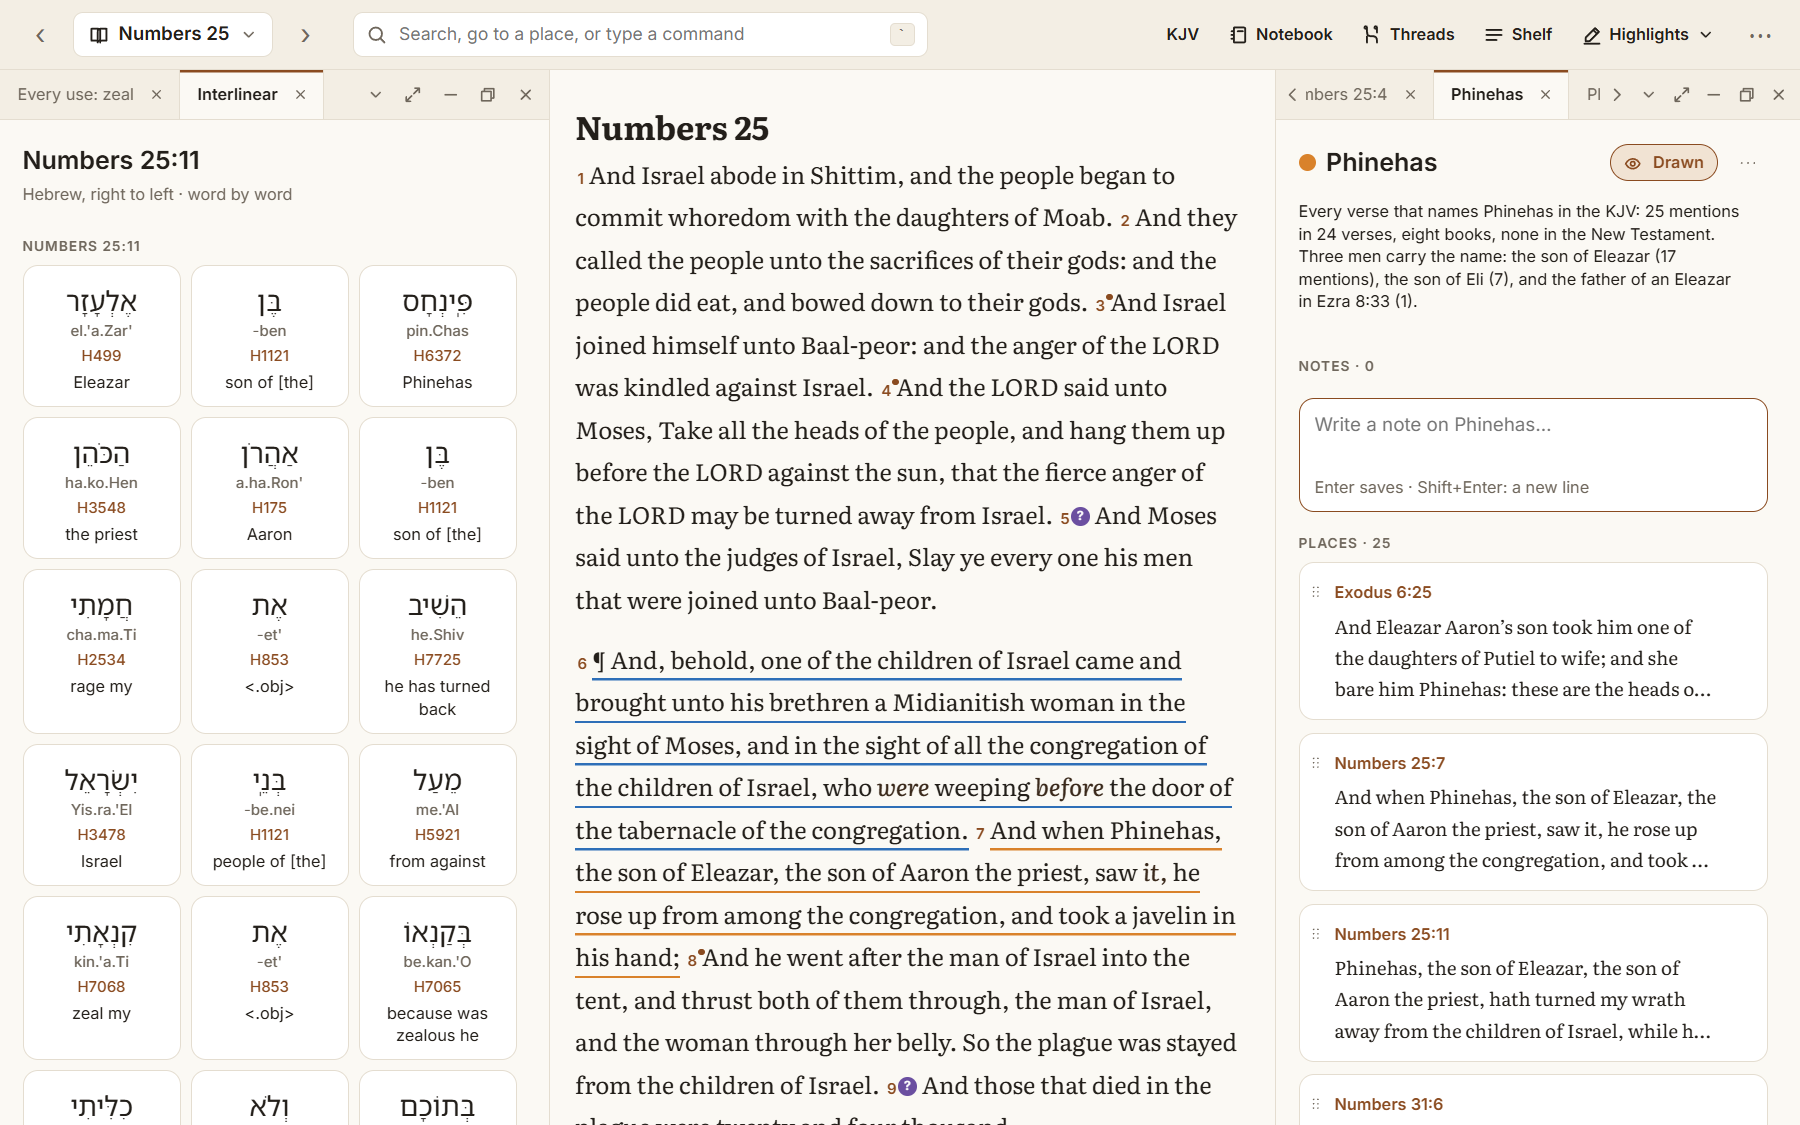
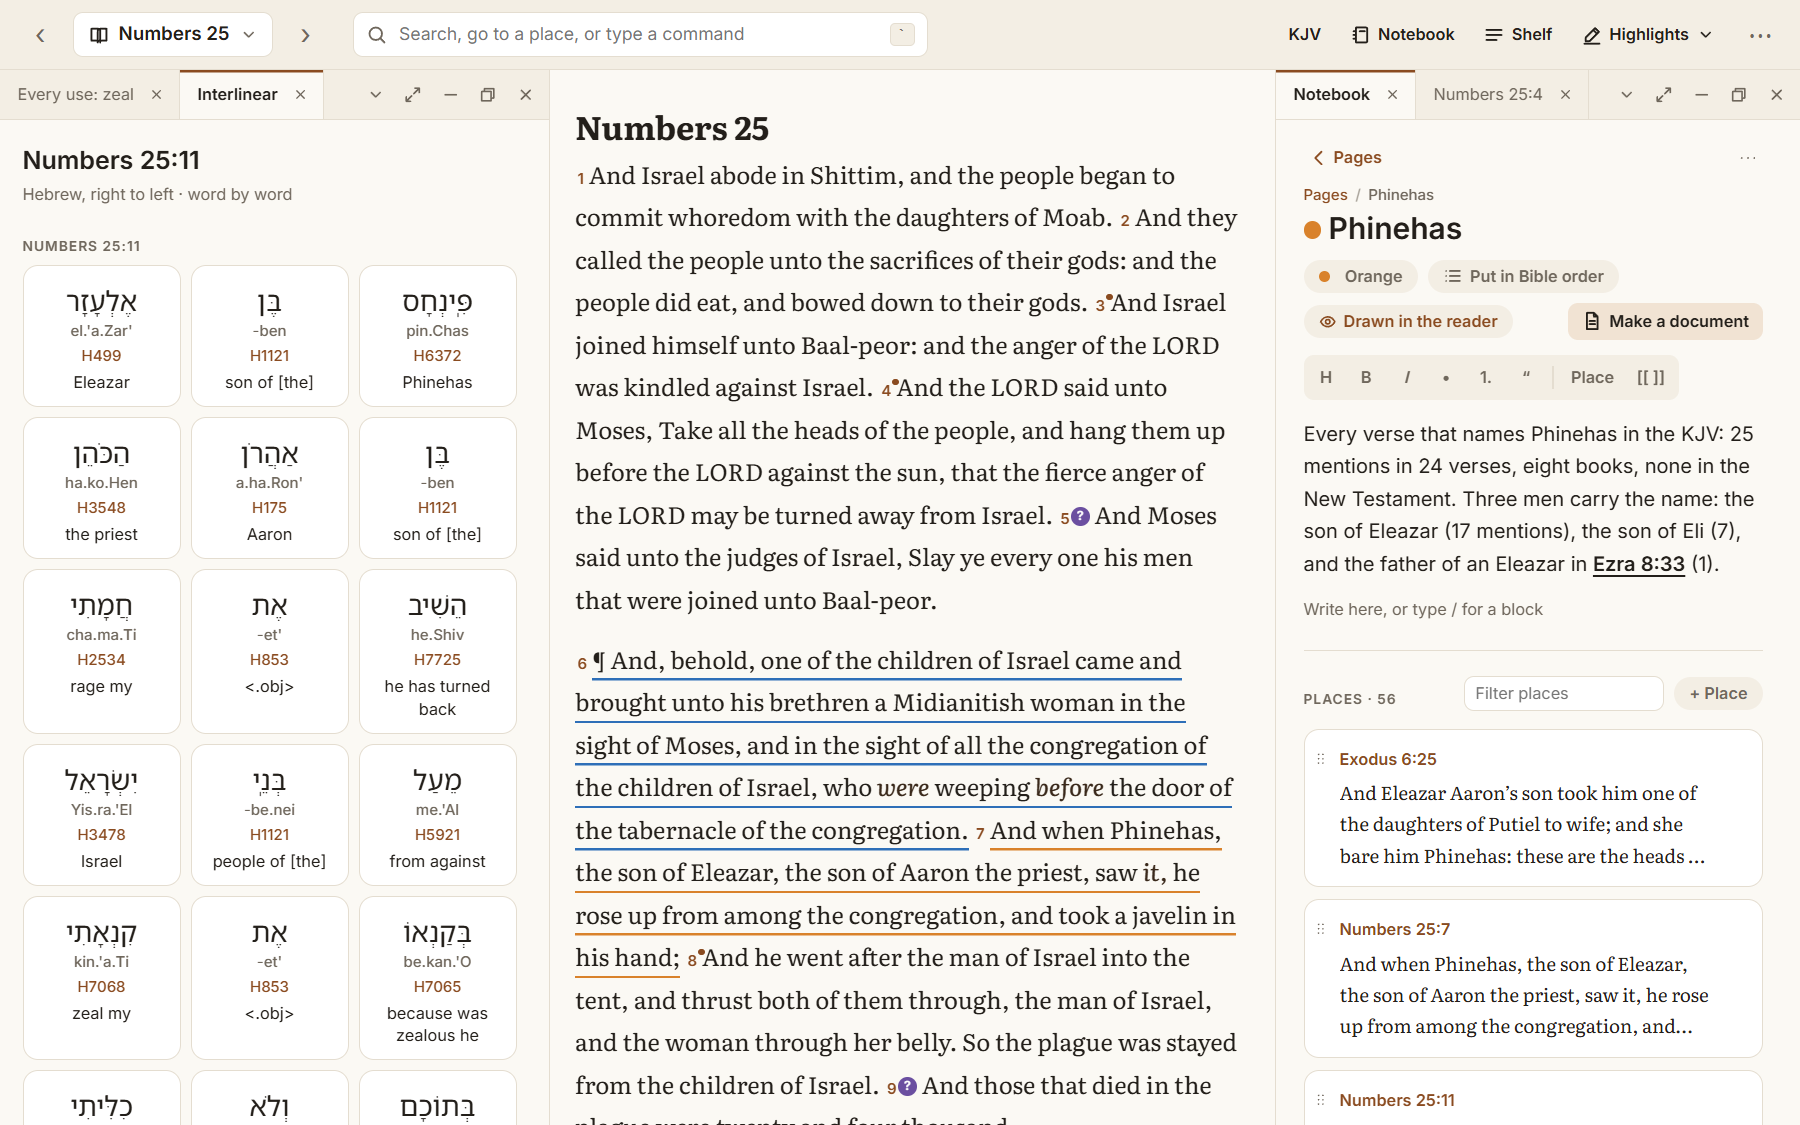
R1: desk checks (376 of 376), results section 28, screenshots, dot for a thread with no color

diff --git a/ui/src/desk.css b/ui/src/desk.css
@@ -227,6 +227,7 @@ mark.m-s { background: var(--hl-blue); } mark.m-e { background: var(--hl-pink); 
 .eye.off { color: var(--muted); }
 .dot { flex: none; }
 .dot.big { width: 14px; height: 14px; }
+.dot.c- { background: var(--line); }
 .dot.c-orange { background: var(--thread-orange); } .dot.c-green { background: var(--thread-green); } .dot.c-pink { background: var(--thread-pink); } .dot.c-yellow { background: var(--thread-yellow); }
 .thread-head { display: flex; align-items: center; gap: 8px; }
 .thread-head .pane-title { flex: 1; }

diff --git a/docs/phase2-results.md b/docs/phase2-results.md
@@ -885,3 +885,46 @@ window's own state, the folds, is kept in its storage as the section folds are).
 | Rust tests | not run: no wb-core, wb-cli or app change |
 
 Screenshots: new `docs/phase2/1440-notebook-places-by-book.png`, `1440-notebook-side-panel-folded.png`, `1440-notebook-a-threads-places.png`; the sheet's four windows in `design/exports/filter/`. Not committed. Not checked with a real mouse or touch (the right-click and long press were driven by Playwright's events; M1 showed what that can miss for drags, which these are not).
+
+## 28. R1: everything is a page (2026-11-09)
+
+From [redesign-R1.md](redesign-R1.md) (findings `38c2`, `7d00`, `d84d`), built as the design round recommended and the person
+accepted ("run your recommendations, and implement these designs"). **No existing file in the study folder is rewritten by
+this change.** What can be new in the folder: `settings/pages.json` (a thread's place in Pinned, a file the Python app passes
+over), and, only when the person writes one, a question callout line, or a thread or word fence, inside a page's text.
+
+| Step | What was built |
+|---|---|
+| The checks first | `wb study check` (what the folder holds as this app reads it, and the files the next change would write: none) and `scripts/py-opens.py` (the Python app's own `Study` over a scratch copy, its counts against `wb study check`'s, or `--save` / `--compare` before and after). Before the change, on the scratch copy of the real folder: the Python app reads **41 notes, 7 threads, 146 thread places, 8 trails, 4 sets**; the same after. |
+| A thread as a page | `threadpage.rs`: the page id `thread:<slug>`; its note is the page's text, so `wb page blocks`, `wb block add|set|rm|move` and every block function take it and write the thread file's note; `wb thread page`, `wb thread pin|unpin`. A thread is a row of the tree with its color's dot, the notes written on it are its children (a note can be on several threads), `[[Phinehas]]` links to it and Linked from works. The thread file is only ever written as the Python app writes it (a test holds its header to `name`, `created`, `updated`, `color`). |
+| The window | The thread's page in the Notebook: the note as blocks, the places as blocks in the thread's own order (grip to drag, × to take out, + Place, a filter when there are more than six), the pages on it with a box to write one, the color, Put in Bible order, Drawn in the reader, Pin, Rename and Delete in ⋯, and its documents at its foot (`thread-…` records, as before). **The Threads button, the Threads pane and the phone's Threads tab are gone**; `threads` and every chip, set item and command that opened a thread open its page. A page dropped on a thread in Pages is put on it. |
+| Three blocks | `/?` a question (`> [!question] …`, `> [!done] …` when answered; *Mark answered* ticks it), `/~` a thread's places kept up to date (```` ```thread ```` and its id), `/word` the lexicon's entry for a number (```` ```word ```` and the number; its English definition held for R5). The menu finds them by `?`, `~`, `word`, and `note` finds *Page inside this one*. `wb page threads|words`, `wb block thread|word`. |
+| Questions as one list | `questions.rs`: the blocks of every page are one list with the trails and the Inbox's: `wb questions`, `wb question list [--at]`, the Questions section and view lines (`notebook questions open`), the reader's ? and the verse card's *Questions here* (a question on part of a verse shows at the verse). `wb question add|answer|fold|unfold`. A question in a page takes its page's places. |
+| Documents | A page's *What goes in* has a row for a question (your words, as a line), a thread block (its places go in as a thread's own document reads them, each verse from the Bible) and a word block (left out unless switched on). A thread's own documents are unchanged: the source stays the thread, the plan code is not touched. |
+| The words | "Notes" are "pages" in the window; `wb page show|text|rm …` is `wb note …`; the Help's Guide has Threads, Questions and Word blocks entries (`wb guide threads`). CLAUDE.md is edited (a rule, shown in the diff for the person's approval). |
+
+**Not done, on purpose:** thread pages are not nested inside other pages (the sidecar can hold it later); `/word` has no English
+definition (R5); no existing trail was folded into a page (`wb question fold` does one at a time, with `unfold` as the undo);
+the Python app does not see a question written in a page as a trail.
+
+**Found by the desk checks:** the person's real folder has grown since the checks were written (52 pages with no place, notes on
+threads, a template that makes the pen ask what to start from, documents, findings), so the desk's own copy now starts without
+them (`measure/desk.mjs` removes `notes/_inbox`, `_threads`, `_days`, `documents`, `findings`, `.trash` and
+`settings/notebook.json` from the copy, never from the person's folder). Two sessions checking at once had shared one folder
+and one DevTools port, so `WB_DESK_WORK` and `WB_DESK_PORT` now give each its own. The release app loads its UI from the dev
+server at `devUrl` (:1420), so a check of a worktree needs its own vite on a free port and the app built with
+`--config '{"build":{"devUrl":"http://localhost:1431"}}'`; **that build is for checking only and must not be installed**.
+
+| | Result |
+|---|---|
+| Rust tests | `cargo test --workspace`: all pass (new: a thread as a page and its file, a link naming a thread, thread and word blocks and their documents, questions in pages: one list, answered, folded and unfolded, `wb page` as `wb note`, plus unit tests of the callout, the fences and `with_marker`) |
+| Plans | `python scripts/doc-plans.py`: **14 of 14** the same as the Python app's (7 threads x Speaker Script and Verse by Verse) |
+| The Python app opens the folder | `python scripts/py-opens.py --compare`: the same as before on the scratch copy of the real folder (41 notes, 7 threads, 146 places, 8 trails, 4 sets); and it agrees with `wb study check` |
+| Golden | `python scripts/golden.py`: **103 of 103** |
+| Desktop in the real app | `node measure/desk.mjs --release`: **376 of 376** (the thread-pane checks rewritten for the page; 14 new) |
+| WebKit | `npm run test:webkit` (on its own port): **18 passed**, 10 skipped |
+
+Screenshots: new `docs/phase2/1440-a-thread-as-a-page.png`, `1440-three-new-blocks.png`; `1440-a-thread.png` and
+`1440-notes-on-a-thread.png` redrawn. Not checked with a real mouse: dragging a thread's places by the grip is written the way
+the pane's was (the same events); a real-input check of it is still owed (M1's lesson). Not committed to the person's app: nothing
+was installed.
